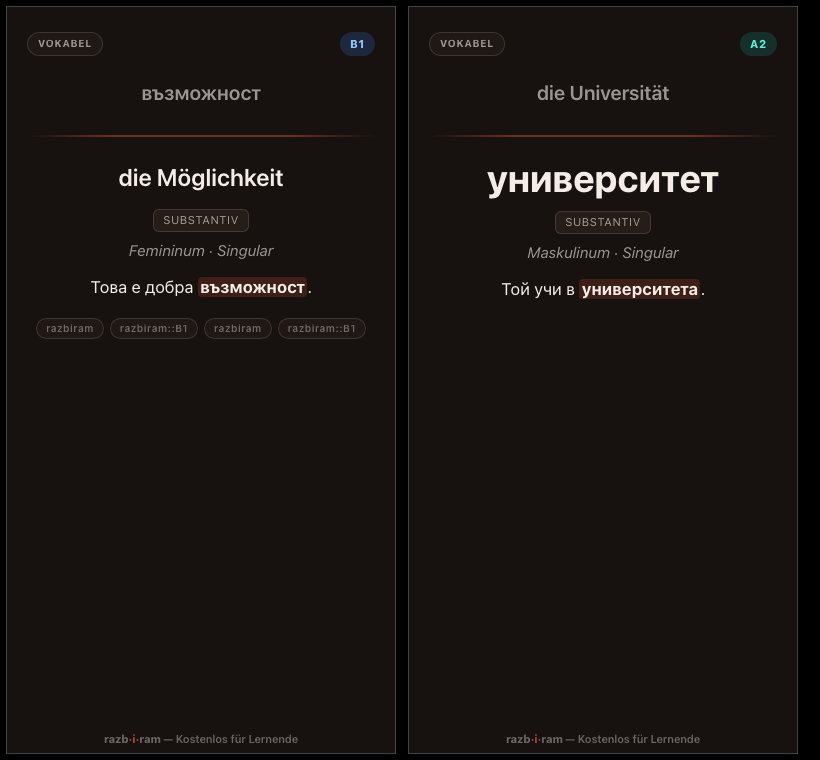
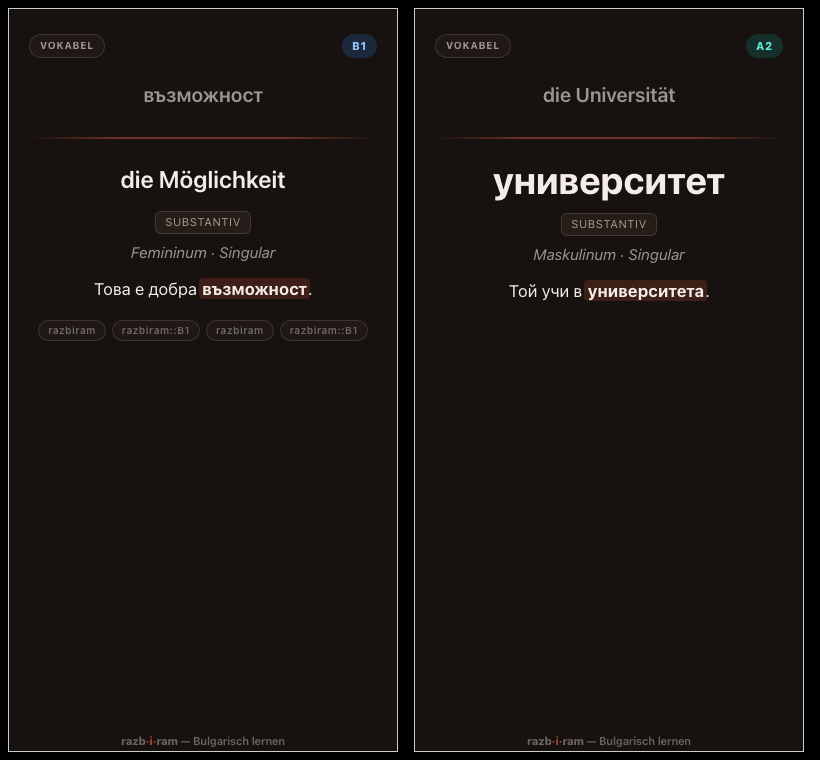
fix(signature): drop the price claim from the card signature
The back of every styled card said "Kostenlos für Lernende". The
platform's own pricing page says "free during our pilot" — a narrower
claim. These cards leave the building: they land in other people's Anki
collections and get passed on, and they keep saying whatever they say
long after the pricing they describe has changed.

The tagline is now "Bulgarisch lernen" — no price claim at all. What is
free today belongs on the pricing page, which can be updated; the card
gets the part that stays true. The in-app FAQ and ANLEITUNG.md now state
it precisely instead: this tool is free forever (it is in the licence),
the platform is free during its pilot.

Screenshots regenerated so the docs show what actually ships.

Claude-Session: https://claude.ai/code/session_01S4RX5rGbmhW2fsuZJHkTuX

diff --git a/src/style/cardTheme.ts b/src/style/cardTheme.ts
@@ -312,8 +312,14 @@ code, pre {
 }
 `;
 
-/** The one place the platform is described to students. Reword here only. */
-export const RAZBIRAM_TAGLINE = "Kostenlos für Lernende";
+/** The one place the platform is described to students. Reword here only.
+ *
+ *  Deliberately carries **no price claim**. These cards travel: they end up in
+ *  other people's Anki collections and get shared on, and they keep saying
+ *  whatever they say for years. A "free" promise would outlive the pricing it
+ *  describes. What is free today belongs on the pricing page, which can change;
+ *  the card gets the part that stays true. */
+export const RAZBIRAM_TAGLINE = "Bulgarisch lernen";
 
 export const RAZBIRAM_URL = "https://razbiram.com";
 

diff --git a/src/Guide.tsx b/src/Guide.tsx
@@ -99,8 +99,9 @@ const HELP: { q: string; a: React.ReactNode }[] = [
     q: "Kostet das etwas?",
     a: (
       <>
-        Nein. Dieses Werkzeug ist kostenlos und quelloffen, und razbiram.com ist für
-        Lernende kostenlos.
+        Dieses Werkzeug ist kostenlos und quelloffen — für immer, das steht in der
+        Lizenz. razbiram.com ist derzeit in der Pilotphase und dort ebenfalls
+        kostenlos; was danach gilt, steht auf der Preisseite von razbiram.com.
       </>
     ),
   },

diff --git a/BIBLE.md b/BIBLE.md
@@ -159,9 +159,12 @@ clear "no cards" error, never a silent empty file.
       answers "flashcard" for anything unclassified, and a template rewrite would
       silently drop fields off richer cards. (2026-07-20)
 - [x] **Card signature** — back face only: the `razb·i·ram` wordmark, a real link
-      to razbiram.com and the tagline **"Kostenlos für Lernende"**, isolated in
-      `RAZBIRAM_TAGLINE` so the wording changes in one place. Never on the front:
-      the question surface stays free. (owner, 2026-07-20)
+      to razbiram.com and a tagline, isolated in `RAZBIRAM_TAGLINE` so the wording
+      changes in one place. Never on the front: the question surface stays free.
+      **The tagline carries no price claim** — these cards get shared and outlive
+      any pricing they would state. It said "Kostenlos für Lernende" until the
+      platform's own page turned out to say "free during our pilot"; a promise the
+      card cannot keep does not belong on it. (owner, 2026-07-20)
 - [x] **Example deck** — six Bulgarian words (A1/A2/B1) with German glosses,
       downloadable from the landing page. BIBLE §8 applies: each entry and each
       example sentence was checked; anything uncertain was left out. (2026-07-20)

diff --git a/ANLEITUNG.md b/ANLEITUNG.md
@@ -99,8 +99,9 @@ Rückseite). Hat eine Karte mehr Felder — zum Beispiel Beispielsätze oder ein
 Niveau —, bleibt dein Layout so, wie es ist. So geht nichts verloren.
 
 **„Kostet das etwas?“**
-Nein. Dieses Werkzeug ist kostenlos und quelloffen, und razbiram.com ist für
-Lernende kostenlos.
+Dieses Werkzeug ist kostenlos und quelloffen — für immer, das steht in der Lizenz.
+razbiram.com ist derzeit in der Pilotphase und dort ebenfalls kostenlos; was danach
+gilt, steht auf der Preisseite von razbiram.com.
 
 ---
 

diff --git a/HANDOFF.md b/HANDOFF.md
@@ -27,7 +27,10 @@ style is a **toggle**, original models preserved.
   coral accent, Studio CEFR scale, full night mode via all four Anki selectors;
   the signature; an ES5 card script) + `applyStyle.ts`.
 - **Signature**: back face only — `razb·i·ram`, a real link to razbiram.com, and
-  **"Kostenlos für Lernende"**, isolated as `RAZBIRAM_TAGLINE`.
+  a tagline isolated as `RAZBIRAM_TAGLINE`. It said "Kostenlos für Lernende"
+  until the platform's own pricing page turned out to say "free during our
+  pilot" — shared cards outlive the pricing they state, so the tagline now
+  carries no price claim at all (owner decision).
 - **Example deck** (`src/example/exampleDeck.ts`): 6 Bulgarian words, 3 CEFR
   bands, German glosses, downloadable from the landing page as `.apkg`.
 - **UI**: style toggle, `.apkg für Anki` button, example-deck link under the

diff --git a/docs/img/README.md b/docs/img/README.md
@@ -3,8 +3,9 @@
 All own work — no third-party images. Regenerate them when the UI or the card
 theme changes, so the README never shows a version that no longer exists.
 
-- **`app.png`** — the app with a deck loaded and the style toggle on. Taken from
-  the running dev server (`./start.sh`) in a headless browser at 900 px wide.
+- **`app.png`** — the landing page including the in-app guide. Taken from the
+  running dev server (`./start.sh`) with headless Chrome at 900 px wide:
+  `--headless --screenshot --window-size=900,1560 --virtual-time-budget=5000`.
 - **`cards-light.png`** / **`cards-dark.png`** — real razbiram cards. Rendered by
   **Anki's own rendering path**, not mocked up: the example deck is imported with
   the `anki` Python library, `card.question()` / `card.answer()` give the exact

diff --git a/README.md b/README.md
@@ -26,7 +26,7 @@ Kurz gesagt:
 3. Herunterladen — als **.apkg** für dein Anki oder als **deck.json** für razbiram.com.
 
 **Deine Karten verlassen deinen Computer nicht.** Kein Konto, keine
-Nachverfolgung, keine Kosten.
+Nachverfolgung, keine Kosten — dieses Werkzeug ist quelloffen und bleibt kostenlos.
 
 So sehen die Karten danach aus, hell und dunkel:
 